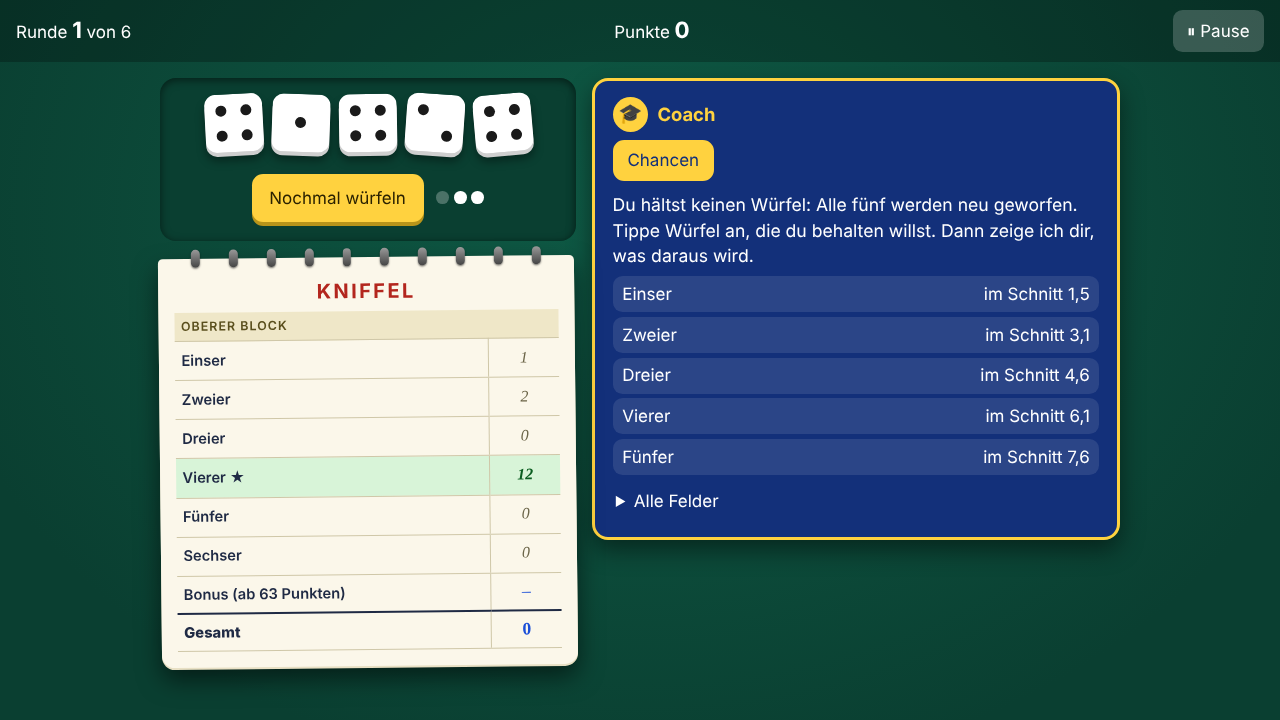
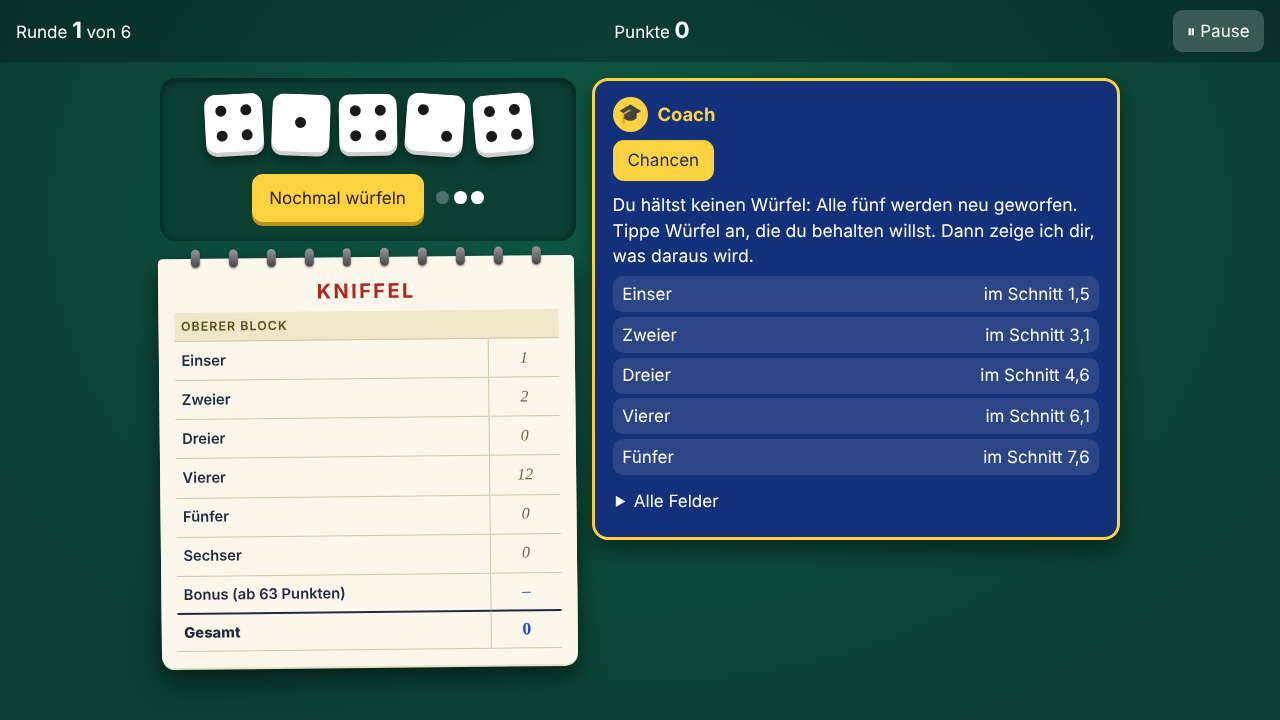
fix: the star in the sheet marks the goal of the dice kept, not the trainer's own pick
Claude-Session: https://claude.ai/code/session_01RpqFpQ8KFjQrpjP6cXtPxY

Changed region(s): [[0.125, 0.6111, 0.4375, 0.7028]]

diff --git a/src/ui/SheetBlock.vue b/src/ui/SheetBlock.vue
@@ -18,7 +18,8 @@ const upper = computed(() => CATEGORIES.filter((c) => c.part === "upper" && fiel
 const lower = computed(() => CATEGORIES.filter((c) => c.part === "lower" && fields.value.includes(c.id)));
 const name = (id: string): string => t.value(`cat_${id}` as never);
 const points = (id: string): number => score(props.state.dice, categoryOf(id));
-const target = computed(() => (props.showTarget ? (props.state.advice?.target ?? "") : ""));
+// the star marks the field the dice the player keeps aim for (the coach says the same); with no die kept there is none
+const target = computed(() => (props.showTarget ? (props.state.coach?.target ?? "") : ""));
 </script>
 
 <template>
@@ -44,7 +45,7 @@ const target = computed(() => (props.showTarget ? (props.state.advice?.target ??
               :aria-label="thrown ? t('enter', { field: name(field.id), points: points(field.id) }) : name(field.id)"
               @click="emit('input', { kind: 'action', name: 'score', value: field.id })"
             >
-              {{ name(field.id) }}<span v-if="target === field.id" aria-hidden="true"> ★</span>
+              {{ name(field.id) }}<span v-if="target === field.id" :title="t('targetMark')" aria-hidden="true"> ★</span>
             </button>
             <template v-else>{{ name(field.id) }}</template>
           </th>
@@ -73,7 +74,8 @@ const target = computed(() => (props.showTarget ? (props.state.advice?.target ??
                 :aria-label="thrown ? t('enter', { field: name(field.id), points: points(field.id) }) : name(field.id)"
                 @click="emit('input', { kind: 'action', name: 'score', value: field.id })"
               >
-                {{ name(field.id) }}<span v-if="target === field.id" aria-hidden="true"> ★</span>
+                {{ name(field.id)
+                }}<span v-if="target === field.id" :title="t('targetMark')" aria-hidden="true"> ★</span>
               </button>
               <template v-else>{{ name(field.id) }}</template>
             </th>

diff --git a/.vibe/plans/02-coach-tipps.md b/.vibe/plans/02-coach-tipps.md
@@ -41,6 +41,8 @@ etwa 17,5 Punkte", nicht zu "nimm Einser".
   "erwartet" fällt nicht. (Wunsch des Erstellers)
 - Zwei Commits in diesem Inkrement: (1) Grundkorrektur mit Punkteverteilung, (2) Zahlenleiste und Ergebnisgitter für
   Full House und Straßen (Wunsch des Erstellers).
+- Stern und grüne Zeile im Kniffelblock zeigen das Ziel der gehaltenen Würfel (wie der Coach), nicht mehr den
+  eigenen Vorschlag des Trainers; ohne gehaltenen Würfel gibt es keine Markierung. (Hinweis des Erstellers beim Spielen)
 - Die Rechnung nach "par" bleibt für die Wahl der Haltemenge. Sie ist eine Näherung für den laufenden Zug; ein
   Spielplan für das ganze Blatt (Bonus) bleibt unberücksichtigt und wird offen gesagt.
 
